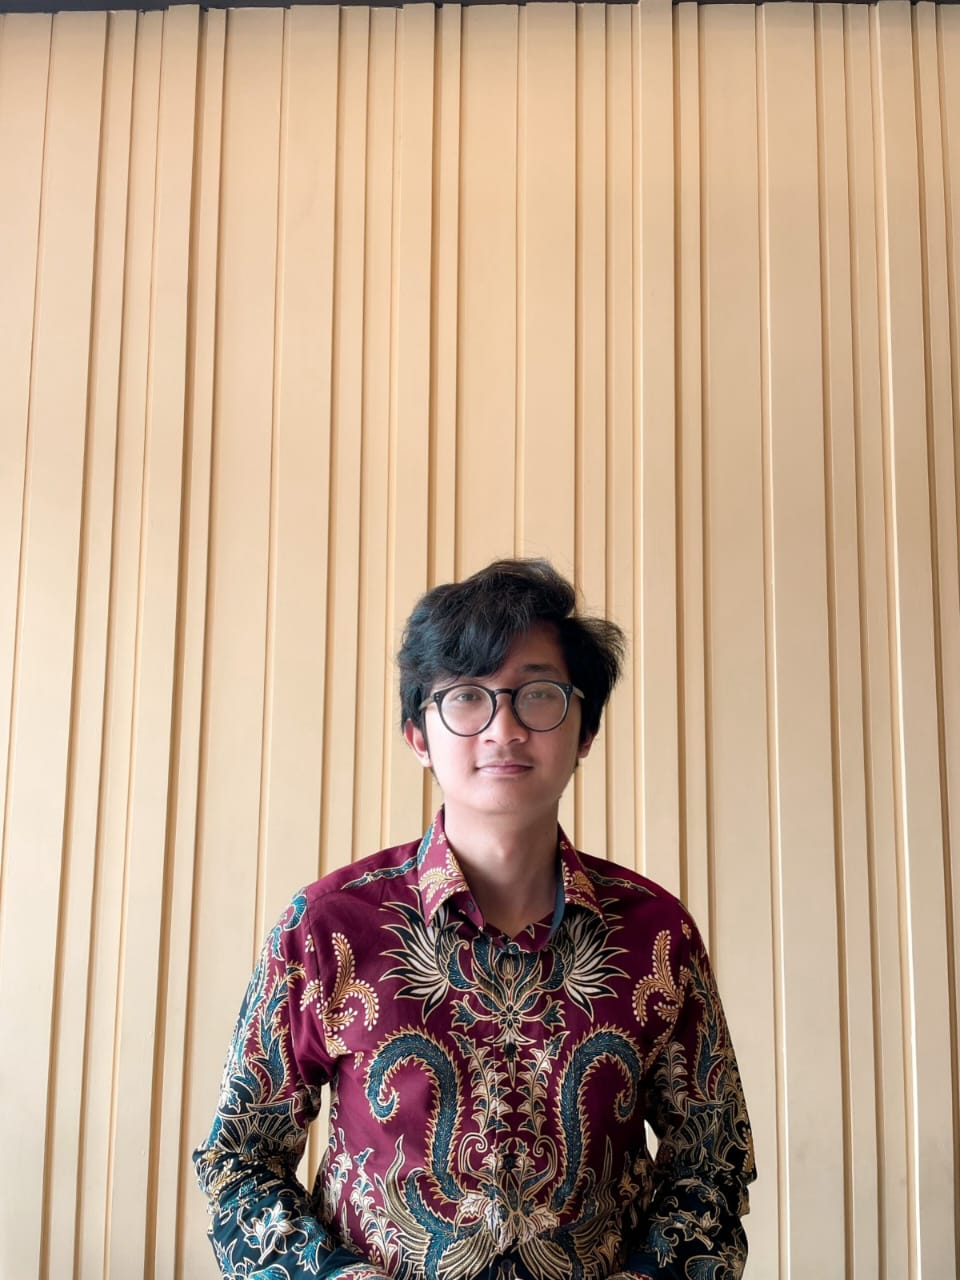
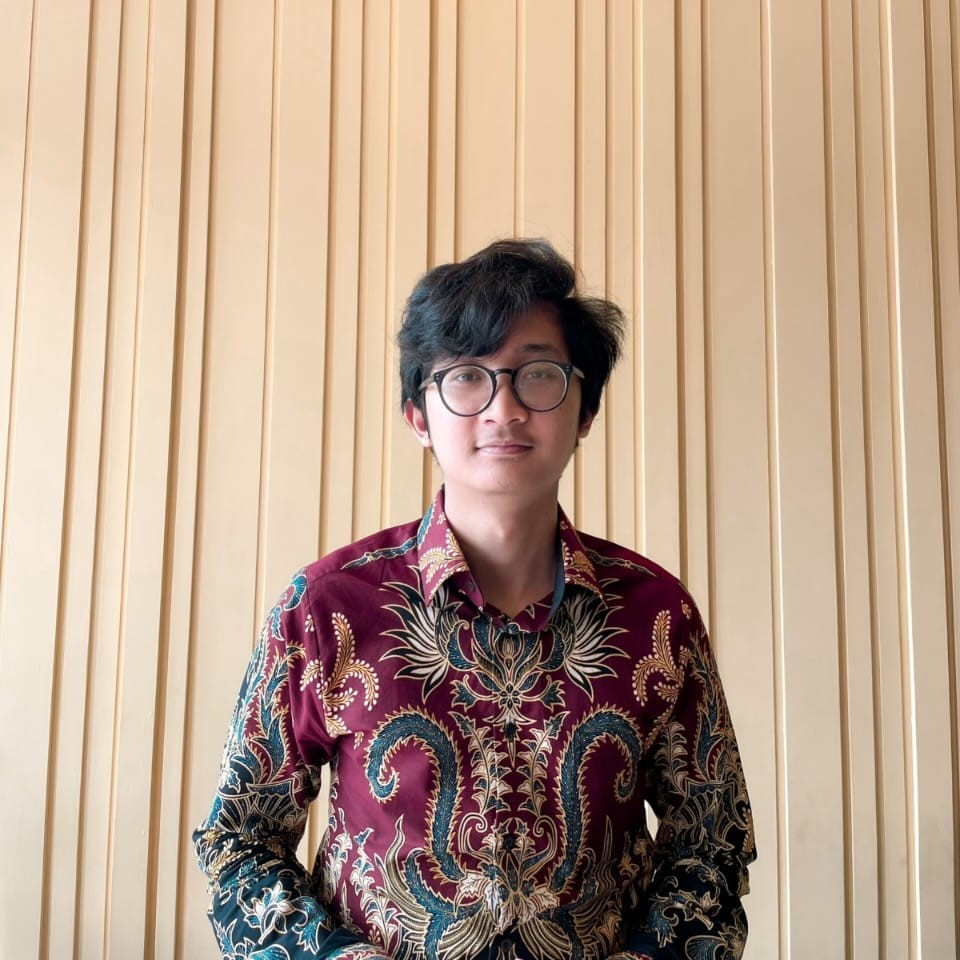
feat: Update team images and index.js

diff --git a/src/pages/teampage/Team.jsx b/src/pages/teampage/Team.jsx
@@ -10,7 +10,7 @@ import foundingLeft from "../../assets/team-image/founding-left.png";
 import foundingMiddle from "../../assets/team-image/founding-middle.png";
 import foundingRight from "../../assets/team-image/founding-right.png";
 
-import { girl, nifa, ayundha, shahira, ory, abigail, iklima, alif, aulia, aurellia, saskia, revina, hanna, gamma, nazkya } from "../../assets/team-image";
+import {girl, nifa, ayundha, shahira, ory, abigail, iklima, alif, aulia, aurellia, saskia, revina, hanna, gamma, nazkya, kevin } from "../../assets/team-image";
 
 export default function Team() {
   const [isMobile, setIsMobile] = useState(window.innerWidth <= 850);

diff --git a/src/assets/team-image/index.js b/src/assets/team-image/index.js
@@ -19,5 +19,8 @@ import hanna from "./hanna.jpg";
 import gamma from "./gamma.jpeg";
 import nazkya from "./nazkya.jpg";
 import ory from "./ory.jpg";
+import kevin from "./kevin.jpg";
+import shahira from "./shahira.jpg";    
+import girl from "./girl.png";
 
-export { regatta, nifa, sahira, yovinka, hanifah, raihan, ayundha, arya, vanya, bartholomew, abigail, iklima, alif, aulia, aurellia, saskia, revina, hanna, gamma, nazkya, ory };
+export { girl, regatta, nifa, sahira, yovinka, hanifah, raihan, ayundha, arya, vanya, bartholomew, abigail, iklima, alif, aulia, aurellia, saskia, revina, hanna, gamma, nazkya, ory, shahira, kevin };
